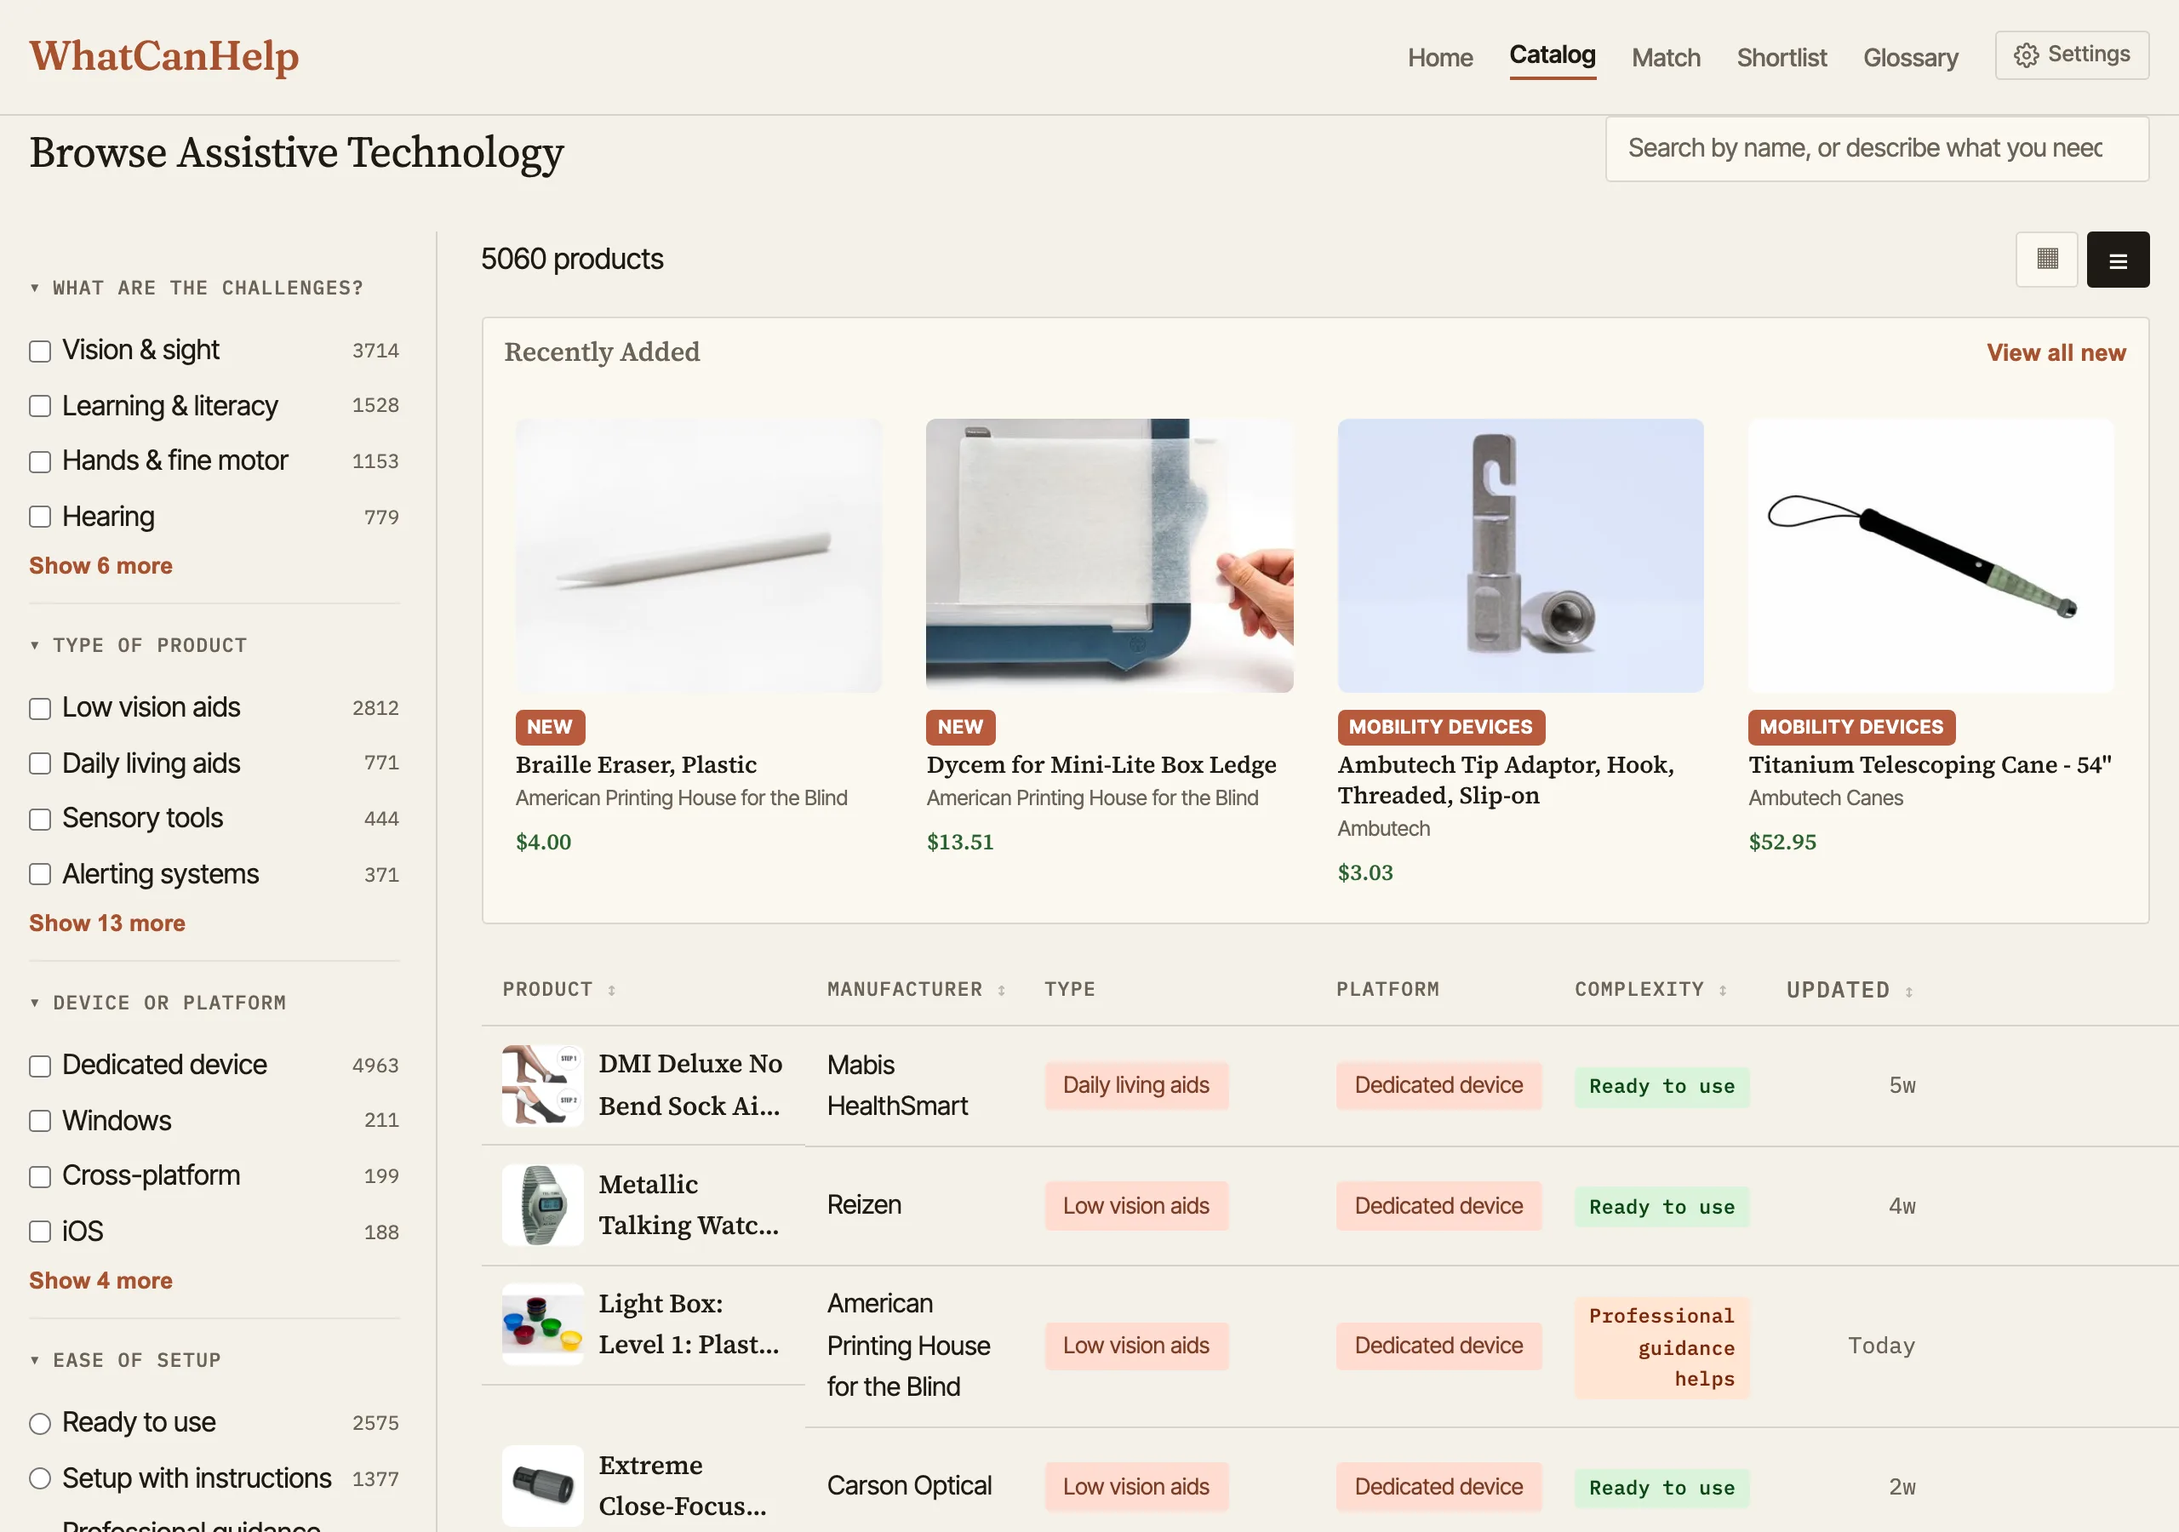
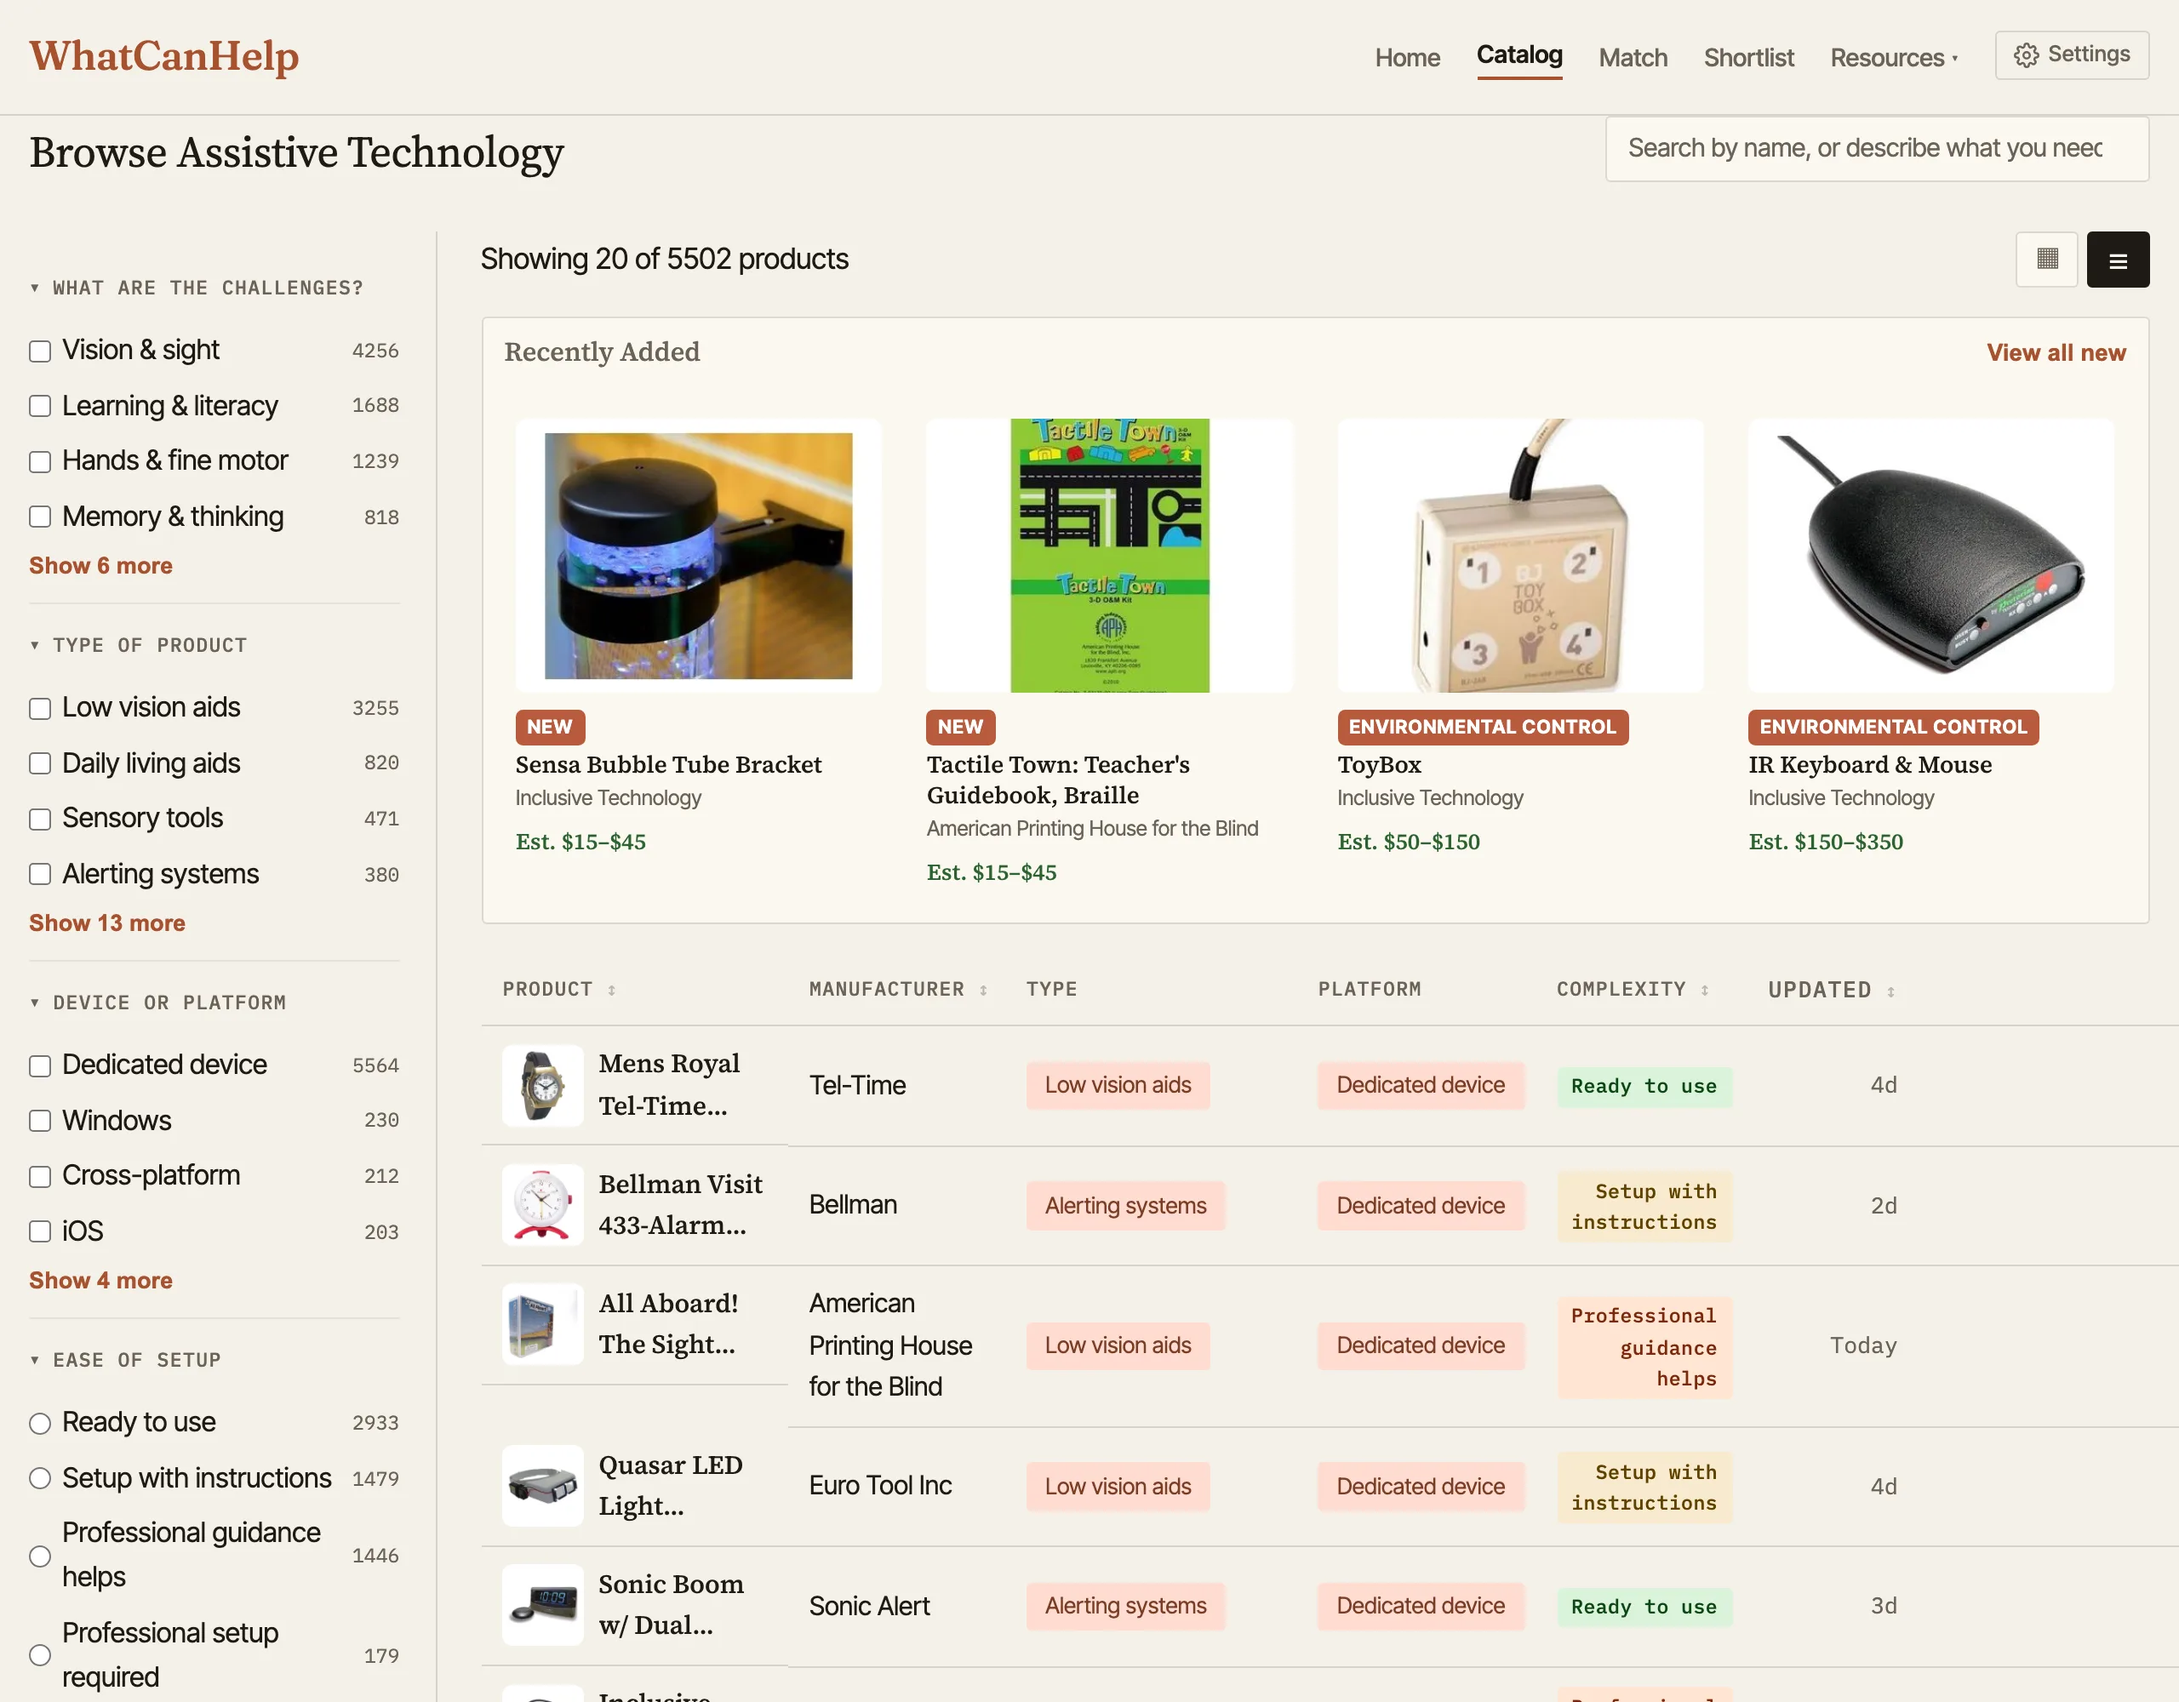
content(whatcanhelp): add borrow, funding, journeys; refresh counts to 5,502

diff --git a/src/content/projects/whatcanhelp.md b/src/content/projects/whatcanhelp.md
@@ -1,28 +1,28 @@
 ---
 title: WhatCanHelp
-description: A free assistive technology discovery tool with 5,000+ products from 23 vendors, freeform AI intake, complexity-tier guidance, plain-language descriptions, and exportable PDF reports for funding meetings and IEP appendices.
+description: A free assistive technology discovery tool with 5,500+ products from 350+ manufacturers, freeform AI intake, complexity-tier guidance, plain-language descriptions, state-by-state borrow and funding directories, and exportable PDF reports for funding meetings and IEP appendices.
 status: shipped
 url: https://whatcanhelp.com
 tags: [node, sqlite, express, vanilla-js, claude-api, accessibility, at]
 started: 2026-03-01
-updated: 2026-05-25
+updated: 2026-06-15
 image: /images/whatcanhelp/landing.webp
-imageAlt: WhatCanHelp landing page — wordmark, Describe the situation button, and How it works steps
+imageAlt: WhatCanHelp landing page - wordmark, Find what actually helps tagline, Describe the situation button, and How it works steps
 ---
 
 I'm the Director of Technology at a nonprofit in Duluth that serves people with disabilities and aging populations. Part of that work is assistive technology - evaluating devices, configuring them for clients, running an AT lending library, answering colleagues' questions about what works. WhatCanHelp grew out of a question I kept coming back to: what would it look like if the AT industry had better discovery tools?
 
-I built a free tool that brings together 5,000+ assistive technology products from 23 vendors in one searchable place, with AI-powered descriptions, a freeform intake that produces a matched shortlist, and PDF reports designed for funding meetings and IEP appendices. No account required, no tracking.
+I built a free tool that brings together 5,500+ assistive technology products from 350+ manufacturers in one searchable place: AI-written plain-language descriptions, a freeform intake that produces a matched shortlist, state-by-state directories for borrowing devices and finding funding, and PDF reports designed for funding meetings and IEP appendices. No account required, and no cookies or personal tracking.
 
 ## The interface
 
-![WhatCanHelp landing page with the wordmark, a Describe the situation primary button, and a three-step How it works section](/images/whatcanhelp/landing.webp)
+![WhatCanHelp landing page with the wordmark, a Find what actually helps tagline, a Describe the situation primary button, and a three-step How it works section](/images/whatcanhelp/landing.webp)
 
-The landing page leads with one thing: a "Describe the situation" button. Below it, a short pitch (shortlist with complexity tiers and funding pathways, plus a PDF summary for funding meetings or IEP appendices) and a vendor-neutral / updated weekly / independent tagline. A "How it works" section breaks the flow into three steps: describe, review, export. Secondary links go to the full catalog and the glossary for people new to AT.
+The landing page leads with one thing: a "Describe the situation" button under the wordmark and a "Find what actually helps" line. Below it, a short pitch (shortlist with complexity tiers and funding pathways, plus a PDF summary for funding meetings or IEP appendices) and a vendor-neutral / updated weekly / independent tagline. A "How it works" section breaks the flow into three steps: describe, review, export. Secondary links go to the full catalog and the glossary for people new to AT.
 
-![WhatCanHelp catalog with 5060 products, faceted sidebar filters, a Recently Added thumbnail row, and a dense product table with complexity badges](/images/whatcanhelp/browse.webp)
+![WhatCanHelp catalog with 5502 products, faceted sidebar filters, a Recently Added thumbnail row, and a dense product table with complexity badges](/images/whatcanhelp/browse.webp)
 
-The catalog shows 5,060 products with faceted filters along the side: challenge area, product type, device or platform, ease of setup, price range, age group, manufacturer, and funding sources. A "Recently Added" thumbnail strip surfaces new products with category badges. Below that, a dense table view with manufacturer, type, platform, complexity tier, and how recently each entry was updated. A card grid view is one toggle away, and you can share filtered views or export results as CSV.
+The catalog shows 5,502 products with faceted filters along the side: challenge area, product type, device or platform, ease of setup, price range, age group, manufacturer, and funding sources. A "Recently Added" thumbnail strip surfaces new products with category badges. Below that, a dense table view with manufacturer, type, platform, complexity tier, and how recently each entry was updated. A card grid view is one toggle away, and you can share filtered views or export results as CSV.
 
 ![WhatCanHelp intake page showing a freeform Describe the situation textarea with an example placeholder mixing clinical and plain language](/images/whatcanhelp/intake.webp)
 
@@ -59,9 +59,27 @@ The glossary is 134 plain-language definitions covering AAC, screen readers, swi
 
 Term pages also gain a "Products in our catalog that use this" section: a reverse lookup that filters with word boundaries (so OT doesn't match "robot") and ranks name-matches above description-matches (so JAWS beats textbooks that merely mention screen readers).
 
+## Borrow before you buy
+
+![WhatCanHelp borrow page titled Borrow Assistive Technology Before You Buy, with a state selector and per-state lending programs listing website, phone, and a verified date](/images/whatcanhelp/borrow.webp)
+
+Every US state and territory runs a federally funded AT program under the Assistive Technology Act, and most offer short-term device loans - usually two to six weeks, free or low-cost - plus hands-on demonstrations. A device you can try for a month before committing is a different decision than one you buy sight unseen. The borrow directory maps all 56 programs: who they are, how to reach them, and a "verified" date on each listing so the contact details aren't quietly rotting. When intake signals that someone wants to try before buying, lending surfaces first in the results.
+
+## Funding pathways
+
+![WhatCanHelp funding directory titled Find Assistive Technology Funding Programs in Your State, with a state selector and a grid of all 56 states and territories](/images/whatcanhelp/funding.webp)
+
+Paying for assistive technology usually starts with a phone call, not a price tag. Every state has official routes - Medicaid and its waivers, Vocational Rehabilitation, AT Act financing loans, ABLE savings accounts - and most people never hear about them. The funding directory maps these doors for all 56 states and territories: who to contact and what to ask. It's framed as starting points rather than coverage advice, because each program decides what it covers. The same data drives "How to fund this" panels on product and intake-result pages and a funding-pathways section in every PDF report, so the money question travels with the recommendation instead of arriving as an afterthought.
+
 ## PDF reports
 
-After intake, the tool generates a PDF report: a summary of the person's profile, matched products with explanations, complexity warnings, and guidance notes. The reports use the same visual language as the web interface so they feel like a cohesive document you can hand to a funding committee, slot into an IEP appendix, or share with a family.
+After intake, the tool generates a PDF report: a summary of the person's profile, matched products with explanations, complexity warnings, guidance notes, and the funding pathways that apply. The reports use the same visual language as the web interface so they feel like a cohesive document you can hand to a funding committee, slot into an IEP appendix, or share with a family.
+
+## Journey guides
+
+![WhatCanHelp step-by-step guides index with four cards: getting a communication device, low vision and blindness, hearing loss, and mobility equipment](/images/whatcanhelp/journeys.webp)
+
+Finding AT is rarely one decision - it's a sequence: understand the options, borrow before buying, narrow the list, line up funding, and bring it all to the right meeting. The journey guides walk that sequence one kind of need at a time - communication, vision, hearing, mobility - linking the glossary, lending programs, intake, funding routes, and report along the way. They're the connective tissue between features that otherwise sit in separate corners of the site, written for someone who knows the goal ("get my kid a communication device") but not the path to it.
 
 ## Accessibility controls
 
@@ -77,7 +95,7 @@ The blog runs honest guides, product roundups, and news for the people who actua
 
 ## How it's built
 
-Node.js and Express, SQLite, vanilla JavaScript on the frontend. The Anthropic API powers product descriptions, intake matching, and classification. A pluggable scraper framework pulls product data from 23 manufacturer and vendor sites, with content hashing for change detection and a staleness-ordered weekly update cycle that prioritizes the oldest entries within a soft time budget.
+Node.js and Express, SQLite, vanilla JavaScript on the frontend. The Anthropic API powers product descriptions, intake matching, and classification. A pluggable scraper framework pulls product data from two dozen manufacturer and retailer sites - the multi-brand retailers among them are why the catalog spans 350+ distinct manufacturers - with content hashing for change detection and a staleness-ordered weekly update cycle that prioritizes the oldest entries within a soft time budget.
 
 The taxonomy is tag-based across seven dimensions: need, solution type, platform, complexity, price band, funding eligibility, and age range. Products can be tagged across multiple needs without being duplicated, which avoids rigid category structures.
 
@@ -97,6 +115,9 @@ flowchart TD
 </div>
 
 ## Updates
+
+### 2026-06-15
+Three new pillars around the core recommendation: borrowing, funding, and guided journeys. A borrow directory maps all 56 state and territory AT Act lending programs, so people can try a device before buying it. A funding directory maps the Medicaid, Vocational Rehabilitation, AT Act loan, and ABLE routes for the same 56 jurisdictions, and now drives "How to fund this" panels on products and a funding section in every PDF report. Step-by-step journey guides walk one kind of need (communication, vision, hearing, mobility) through the whole sequence, linking the glossary, lending programs, intake, funding, and report. The catalog grew to 5,502 products across 350+ manufacturers. Under the hood: an accessibility axe-gate across two dozen surfaces, 'unsafe-inline' dropped from the script CSP, an SSRF guard on scraped images, an AI kill switch with per-pool budgets, and daily database backups with a tested restore.
 
 ### 2026-05-25
 Pivoted toward a professional audience (AT specialists, SLPs, OTs, educators) without losing the family-and-self-advocate doorway. Intake collapsed from a multi-step checkbox flow into one freeform "Describe the situation" textarea. Catalog grew to 5,060 products from 23 vendors. Detail pages added price, shortlist + share buttons, and a professional-finder callout pointing to RESNA, ASHA ProFind, and State AT Act Programs. Glossary gained a peek drawer with shareable URLs and a reverse "products that use this term" lookup on term pages. Blog posts now ship with hero images and inline product hover previews. Fresh screenshots throughout.
